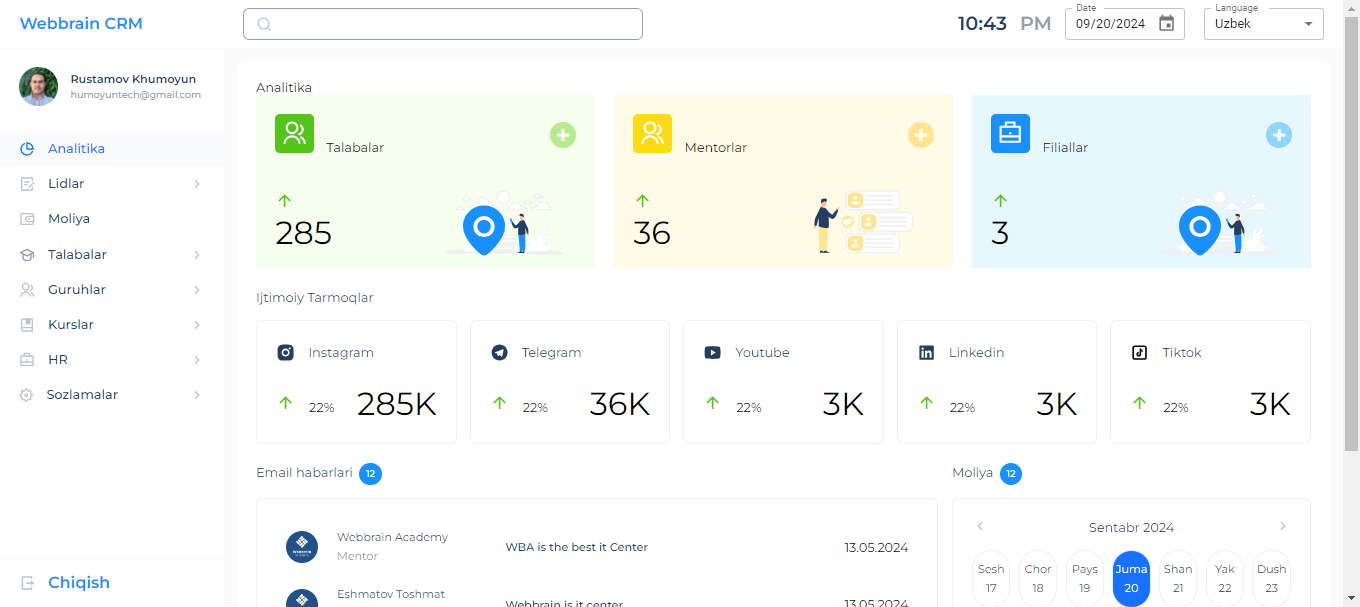
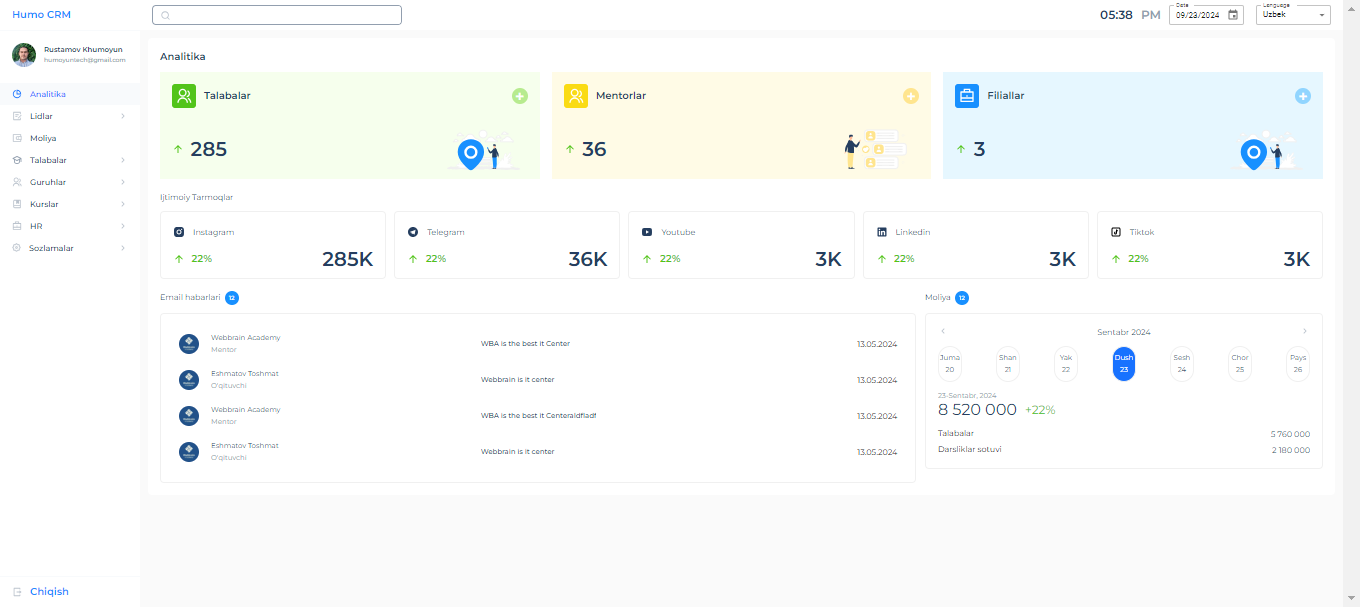
Generics_button finish

diff --git a/src/components/Generics/Button/style.js b/src/components/Generics/Button/style.js
@@ -1,7 +1,69 @@
 import styled from "styled-components"
+import filter from "../../../assets/icons/filter.svg?react";
+import imp from "../../../assets/icons/import.svg?react";
+import add from "../../../assets/icons/add.svg?react";
 
-const Container = styled.div``;
+const Icons = styled.div``;
 
+Icons.Filter = styled(filter)`
 
+  & path {
+    fill: white;
+  }
+`;
 
-export {Container};
+Icons.Impprt = styled(imp)``;
+Icons.Plus = styled(add)``;
+
+const Button  = styled.button`
+    display: flex;
+    justify-content: center;
+    align-items: center;
+    background-color: transparent;
+    border: 1px solid var(--primaryColor);
+    border-radius: 8px;
+    padding: 10px 16px;
+    color: var(--primaryColor);
+    cursor: pointer;
+    font-size: 14px;
+    font-weight: 500;
+    line-height: 20px;
+    gap: 8px;
+    &:active {
+        transform:scale(0.98);
+        opacity: 0.8;
+    }
+    -webkit-user-select: none; /* Safari */
+    user-select: none; /* Standard syntax */
+`;
+
+Button.Import = styled(Button)`
+  border: 0;
+  background-color: #fff;
+`;
+
+Button.Add = styled(Button)`
+    background-color: ${({ bgcolor }) => (bgcolor ? bgcolor : "#1890ff")};
+    color: white;
+    border: 0;
+`;
+
+Button.Filter = styled(Button)`
+  background-color: var(--primaryColor);
+  color: white;
+  border: 0;
+`;
+
+Button.Primay = styled(Button)`
+  border: 0;
+  background-color: #1890ff;
+  color: white;
+`;
+
+Button.Delete = styled(Button)`
+  border-color: #ffa39e;
+  color: #f5222d;
+  border: 0;
+`;
+
+export {Button, Icons };

diff --git a/src/components/Lids/All/index.jsx b/src/components/Lids/All/index.jsx
@@ -2,6 +2,7 @@ import { useState } from "react";
 import GenericTable from "../../Generics/Table";
 import { Container } from "./style";
 import Breadcrumb from "../../Generics/BreadCrumb";
+import GenericButton from "../../Generics/Button";
 
 export const AllLids = () => {
   const [open, setOpen] = useState(false);
@@ -41,11 +42,17 @@ export const AllLids = () => {
   return (
     <Container>
       <Breadcrumb>
-        <button onClick={() => setOpen(!open)}>Filter</button>
-        <button onClick={() => setOpen(!open)}>Import</button>
-        <button onClick={() => setOpen(!open)}>Buyurtma berish</button>
+          <GenericButton type="import" onClick={() => setOpen(!open)}>Import</GenericButton>
+          <GenericButton type="filter" onClick={() => setOpen(!open)}>Filter</GenericButton>
+          <GenericButton type="add" onClick={() => setOpen(!open)}>Buyurtma berish</GenericButton>
+
+          {/* <GenericButton type="primary" onClick={() => setOpen(!open)}>primary</GenericButton>
+          <GenericButton type="save" onClick={() => setOpen(!open)}>save</GenericButton>
+          <GenericButton type="delete" onClick={() => setOpen(!open)}>delete</GenericButton> */}
+         
       </Breadcrumb>
       <GenericTable open={open} headCells={headCells} rows={rows} />
     </Container>
   );
 };
+

diff --git a/src/components/Generics/Button/index.jsx b/src/components/Generics/Button/index.jsx
@@ -1,8 +1,25 @@
-import {Container} from './style'
-function Button() {
-  return (
-    <Container>Button</Container>
-  )
-}
+/* eslint-disable no-undef */
+/* eslint-disable react/prop-types */
+import {Button, Icons} from './style'
 
-export default Button
+function GenericButton(props) {
+  const { children, type } = props;
+  switch(type){
+    case "filter":
+      return (<Button.Filter  {...props}> <Icons.Filter /> {children}</Button.Filter>);
+    case "import":
+      return (<Button.Import  {...props}>  <Icons.Impprt /> {children}</Button.Import>);
+    case "save":
+    case "primary":
+      return (<Button.Primay {...props}>{children}</Button.Primay>);
+    case "delete":
+      return (<Button.Delete {...props}>{children}</Button.Delete>);
+    case "add":
+      return (<Button.Add {...props}>  <Icons.Plus />{children}</Button.Add>);
+    default:
+      return( <Button {...props}>{children}</Button>);
+  }
+
+};
+
+export default GenericButton;

diff --git a/src/components/Sidebar/index.jsx b/src/components/Sidebar/index.jsx
@@ -47,7 +47,7 @@ export default function Sidebar() {
   return (
     <Container>
       <Side>
-        <Logo onClick={onClickLogo}>Webbrain CRM</Logo>
+        <Logo onClick={onClickLogo}>Humo CRM</Logo>
         <Profile />
         <Menu>
           {sidebar.map((parent) => {
@@ -104,5 +104,3 @@ export default function Sidebar() {
     </Container>
   );
 }
-
-// 17:00

diff --git a/review.js b/review.js
@@ -39,7 +39,9 @@
     git push -u origin main
  */
     
-// 23-dars #007/Generics_table
+// 24-dars #008/Generics_button
+// git push -u origin "#008/Generics_button"
+
 
 
 //   1 - dars | Project haqida | YouTube Link
